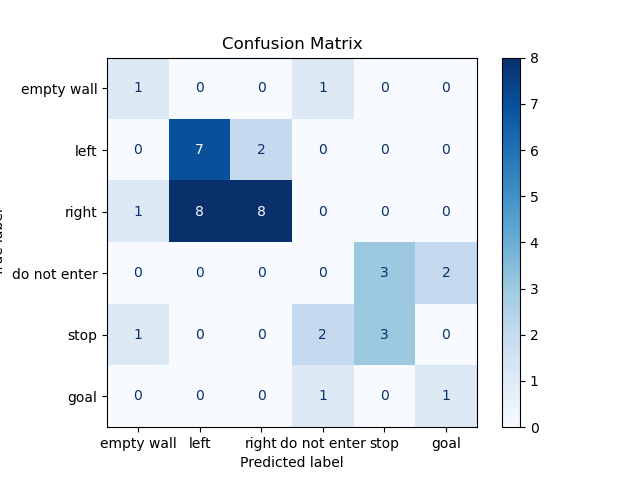
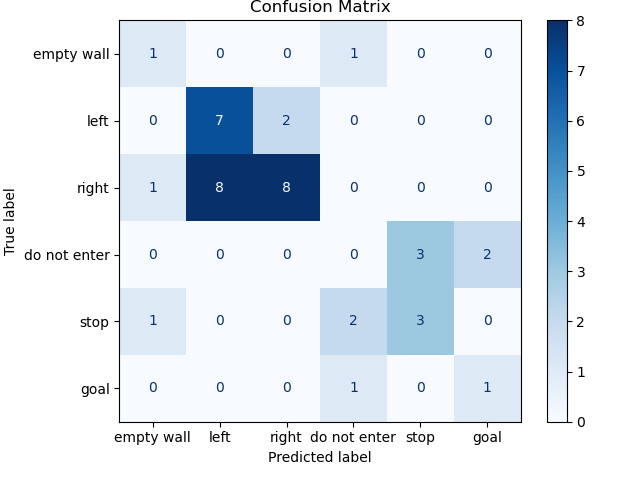
Rev 1 of working code with 89% accuracy. Dataset needs some love and model builder needs some intelligence.

diff --git a/model_builder.py b/model_builder.py
@@ -71,6 +71,7 @@ def main():
     cm = confusion_matrix(y_test, y_pred, labels=list(CLASS_LABELS.keys()))
     disp = ConfusionMatrixDisplay(confusion_matrix=cm, display_labels=CLASS_LABELS.values())
     disp.plot(cmap=plt.cm.Blues)
+    plt.tight_layout()
     plt.title("Confusion Matrix")
     plt.show()
 

diff --git a/README.md b/README.md
@@ -10,6 +10,9 @@
 7. Edit line 80 of this code and supply the path of the test dataset folder. Save and exit.
 8. In the same directory, run the tester code: `python3 model_tester.py`. Prediction labels, accuracy, and classification report are printed to the terminal.
 9. To exit out of the virtual environment, use the command `deactivate`.
- 
+________
+
+![Confusion Matrix](/ConfusionMatrix.png)
+________
 #### Group 33: Pratheek Manjunath, Chris Meier, GLTron.<br>
-pratheek.m@gatech.edu<br>
+pratheek.m@gatech.edu
